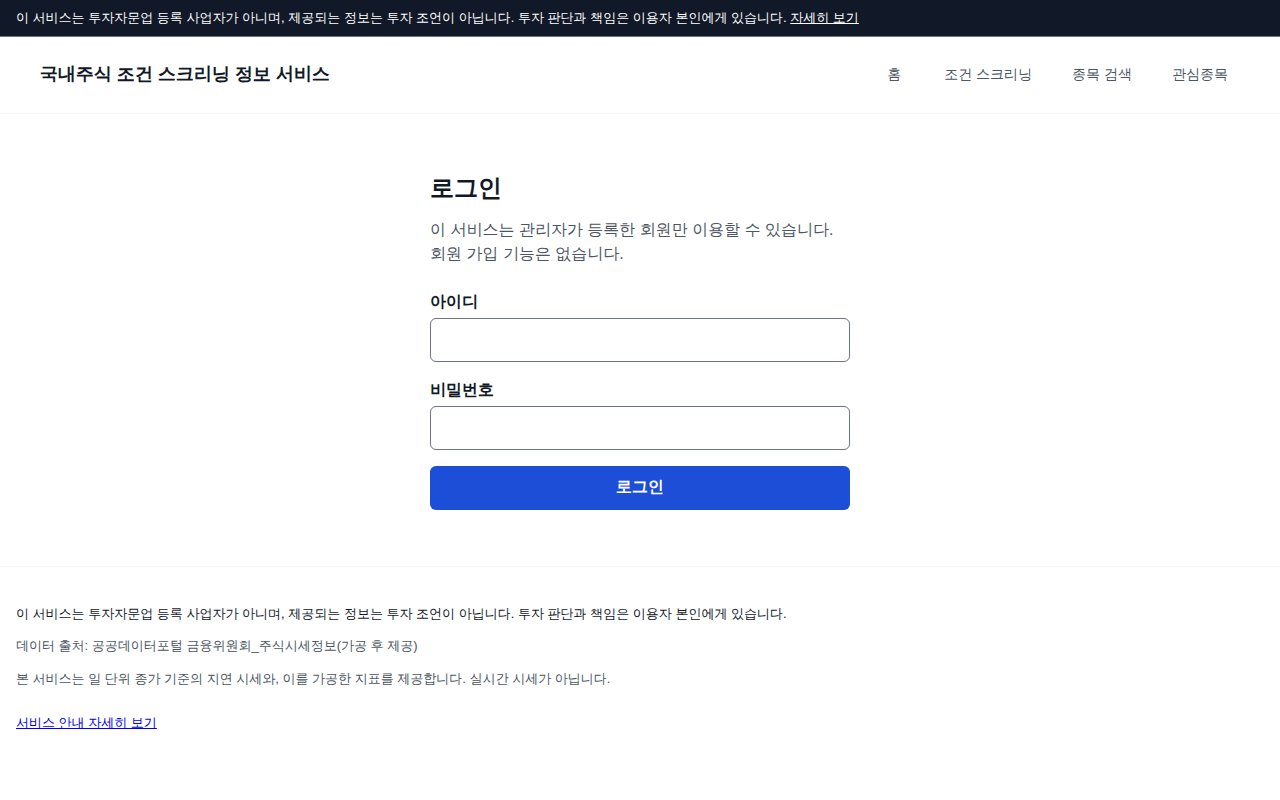
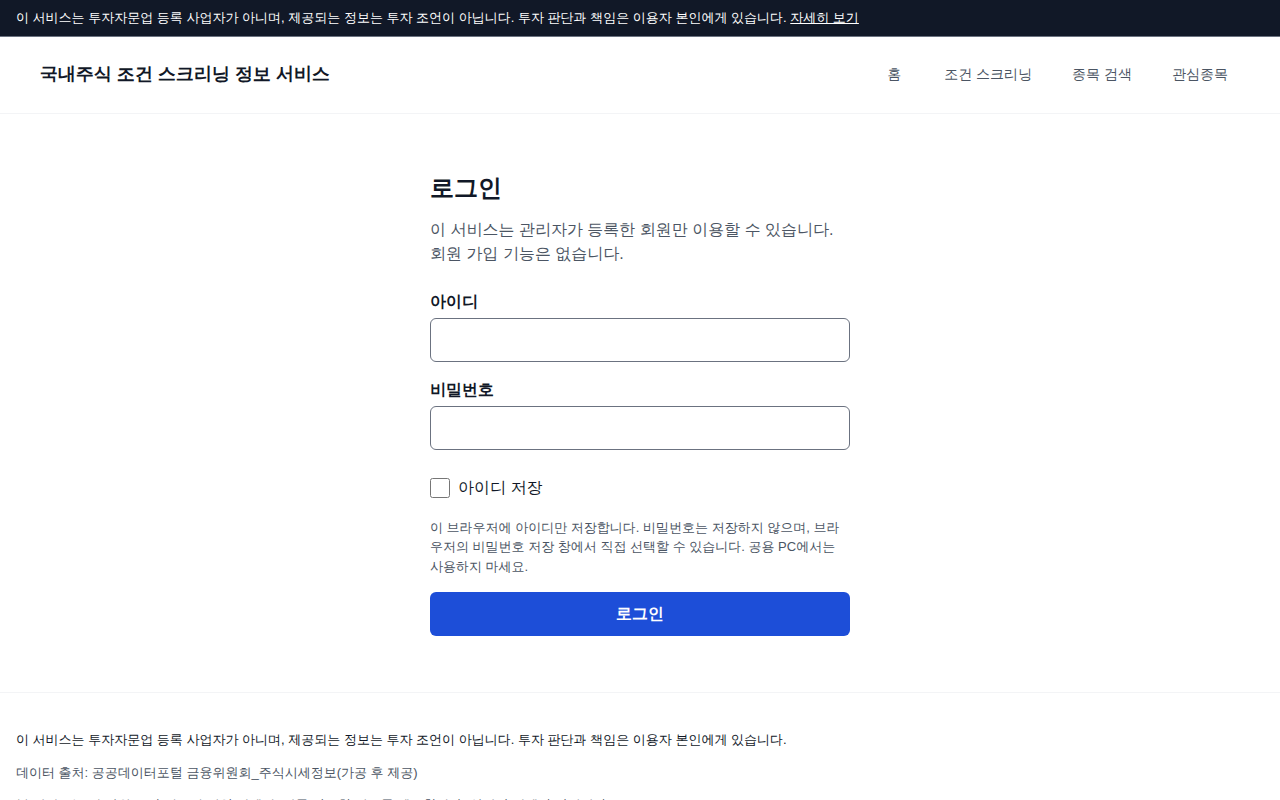
feat(auth): 로그인 화면 아이디 저장 + 브라우저 비밀번호 관리자 연계 (DEC-069)
Claude-Session: https://claude.ai/code/session_01QuiKfc1fybZYPtPuWCxdtT

Changed region(s): [[0.0, 0.5625, 0.6875, 0.8125], [0.0, 0.8438, 0.625, 0.9688]]

diff --git a/frontend/src/components/LoginForm.tsx b/frontend/src/components/LoginForm.tsx
@@ -2,6 +2,22 @@
 
 import { useEffect, useRef, useState, type FormEvent } from "react";
 import copy from "@/content/copy.ko.json";
+import { browserStorage, loadSavedUsername, persistUsername } from "@/lib/auth/savedUsername";
+
+/**
+ * 브라우저 비밀번호 관리자에 저장을 제안한다(Credential Management API, Chrome·Edge). 앱은 비밀번호를 저장하지 않고 브라우저에 넘길 뿐이며
+ * 저장 여부는 사용자가 브라우저 창에서 정한다. 미지원 브라우저는 폼의 autocomplete 속성으로 브라우저가 알아서 제안한다. 최대 1초만 기다린다.
+ */
+async function offerPasswordToBrowser(username: string, password: string): Promise<void> {
+  try {
+    const w = window as unknown as { PasswordCredential?: new (data: { id: string; password: string; name?: string }) => Credential };
+    if (!w.PasswordCredential || !navigator.credentials?.store) return;
+    const credential = new w.PasswordCredential({ id: username.trim(), password });
+    await Promise.race([navigator.credentials.store(credential), new Promise((resolve) => setTimeout(resolve, 1000))]);
+  } catch {
+    // 저장 제안 실패는 로그인에 영향을 주지 않는다
+  }
+}
 
 /**
  * 로그인 입력 폼(DEC-067). 제출은 같은 사이트의 `POST /auth/login`(JSON)으로 보내고, 성공하면 **전체 화면 이동**으로 돌아갈 곳을 연다
@@ -11,7 +27,19 @@ export function LoginForm({ next, expired }: { next: string; expired: boolean })
   const [pending, setPending] = useState(false);
   const [message, setMessage] = useState<string | null>(expired ? copy.auth.expiredNotice : null);
   const passwordRef = useRef<HTMLInputElement>(null);
+  const usernameRef = useRef<HTMLInputElement>(null);
+  const rememberRef = useRef<HTMLInputElement>(null);
   const [failures, setFailures] = useState(0);
+
+  // "아이디 저장": 저장된 아이디가 있으면 채우고 비밀번호 칸으로 포커스(비밀번호는 브라우저 비밀번호 관리자가 채운다).
+  useEffect(() => {
+    const saved = loadSavedUsername(browserStorage());
+    if (saved && usernameRef.current && rememberRef.current && usernameRef.current.value === "") {
+      usernameRef.current.value = saved;
+      rememberRef.current.checked = true;
+      passwordRef.current?.focus();
+    }
+  }, []);
 
   // 실패한 뒤 비밀번호 칸에 포커스를 돌려준다. 입력칸은 제출하는 동안 비활성이라, 다시 활성화된 **다음 렌더 뒤**에 포커스해야 먹힌다.
   useEffect(() => {
@@ -36,6 +64,8 @@ export function LoginForm({ next, expired }: { next: string; expired: boolean })
       const body = (await response.json().catch(() => null)) as { ok?: boolean; next?: unknown } | null;
       if (response.ok && body?.ok) {
         const target = typeof body.next === "string" && body.next.startsWith("/") && !body.next.startsWith("//") ? body.next : "/";
+        persistUsername(browserStorage(), username, rememberRef.current?.checked === true);
+        await offerPasswordToBrowser(username, password);
         window.location.assign(target);
         return; // 화면이 바뀌므로 입력 잠금은 그대로 둔다
       }
@@ -66,6 +96,7 @@ export function LoginForm({ next, expired }: { next: string; expired: boolean })
           maxLength={64}
           required
           disabled={pending}
+          ref={usernameRef}
         />
       </div>
       <div className="login-form__field">
@@ -81,6 +112,11 @@ export function LoginForm({ next, expired }: { next: string; expired: boolean })
           ref={passwordRef}
         />
       </div>
+      <div className="login-form__remember">
+        <input id="login-remember" name="remember" type="checkbox" disabled={pending} ref={rememberRef} />
+        <label htmlFor="login-remember">{copy.auth.rememberLabel}</label>
+      </div>
+      <p className="login-form__hint">{copy.auth.rememberHint}</p>
       {message ? (
         <p className="login-form__message" role="alert">
           {message}

diff --git a/frontend/src/lib/auth/savedUsername.ts b/frontend/src/lib/auth/savedUsername.ts
@@ -1,0 +1,50 @@
+/**
+ * "아이디 저장"(로그인 편의, DEC-069): 아이디만 이 브라우저의 localStorage에 둔다. **비밀번호는 어디에도 저장하지 않는다**
+ * (JS가 읽을 수 있는 저장소에 비밀번호를 두면 XSS 한 번으로 탈취된다). 비밀번호 저장은 브라우저·OS의 비밀번호 관리자에 맡긴다.
+ * 저장소가 막힌 환경(사생활 보호 모드 등)에서는 조용히 아무것도 하지 않는다.
+ */
+export const SAVED_USERNAME_KEY = "login.savedUsername";
+const VALID = /^[A-Za-z0-9][A-Za-z0-9._-]{0,63}$/;
+
+export interface StorageLike {
+  getItem(key: string): string | null;
+  setItem(key: string, value: string): void;
+  removeItem(key: string): void;
+}
+
+/** 저장된 아이디가 있으면 돌려주고, 형식이 이상한 값(변조 등)은 지우고 null. */
+export function loadSavedUsername(storage: StorageLike | null | undefined): string | null {
+  try {
+    const raw = storage?.getItem(SAVED_USERNAME_KEY);
+    if (raw == null) return null;
+    if (VALID.test(raw)) return raw;
+    storage?.removeItem(SAVED_USERNAME_KEY);
+  } catch {
+    // 저장소 접근 불가: 저장 기능만 포기한다
+  }
+  return null;
+}
+
+/** remember가 true이고 아이디 형식이 맞을 때만 저장, 아니면 지운다. 저장했으면 true. */
+export function persistUsername(storage: StorageLike | null | undefined, username: string, remember: boolean): boolean {
+  try {
+    const value = username.trim();
+    if (remember && VALID.test(value)) {
+      storage?.setItem(SAVED_USERNAME_KEY, value);
+      return storage != null;
+    }
+    storage?.removeItem(SAVED_USERNAME_KEY);
+  } catch {
+    // 저장소 접근 불가
+  }
+  return false;
+}
+
+/** 안전하게 localStorage를 얻는다(접근만 해도 예외가 날 수 있다). */
+export function browserStorage(): StorageLike | null {
+  try {
+    return typeof window === "undefined" ? null : window.localStorage;
+  } catch {
+    return null;
+  }
+}

diff --git a/frontend/src/app/globals.css b/frontend/src/app/globals.css
@@ -2635,6 +2635,32 @@ main {
   outline-offset: 2px;
 }
 
+.login-form__remember {
+  display: flex;
+  align-items: center;
+  gap: var(--space-2);
+  min-height: 44px; /* 터치 영역 */
+}
+
+.login-form__remember input {
+  width: 20px;
+  height: 20px;
+  margin: 0;
+  accent-color: var(--color-brand-primary);
+}
+
+.login-form__remember input:focus-visible {
+  outline: 2px solid var(--color-focus-ring);
+  outline-offset: 2px;
+}
+
+.login-form__hint {
+  margin: calc(var(--space-2) * -1) 0 0;
+  color: var(--color-text-secondary);
+  font-size: 13px;
+  line-height: 1.5;
+}
+
 .login-form__message {
   margin: 0;
   padding: var(--space-2) var(--space-3);

diff --git a/docs/harness/decisions.md b/docs/harness/decisions.md
@@ -79,3 +79,4 @@
 | DEC-066 | 2026-10-05 | 대기 안내를 카운트다운 팝업으로 변경(DEC-063·065 보완) | 운영에서 15분 쉰 뒤 접속하면 상단 배너가 떴으나 "제대로 확인이 불가하다"는 지적. 사용자가 요청 시각과 1분 카운트다운 팝업, 00에서 팝업 닫고 새로고침을 요청. | **채택(사용자 지시 + 3개 선택)**: 4.5초 넘게 걸리면 가운데 팝업에 요청 시각(KST)과 남은 시간 60→00 표시. ① 60초 전에 데이터가 오면 팝업만 닫고 새로고침 안 함 ② 0초에 새로고침은 서버가 화면을 불러오는 중일 때(홈·종목 상세)만, 브라우저 요청 지연은 팝업만 닫음 ③ 새로고침은 같은 탭에서 연속 최대 2회(저장소 오류 시 새로고침 안 함). 팝업은 화면 조작을 막지 않음. 웹 자체가 잠든 구간은 불가. | 사용자 응답 (2026-10-05) | Medium | `frontend/src/lib/wakeCountdown.ts`, `frontend/src/components/ApiWakeNotice.tsx`, `frontend/src/lib/apiWake.ts` |
 | DEC-067 | 2026-10-05 | 운영 사이트 로그인 기능(회원 가입 없음, 관리자가 넣은 회원만) | 사용자가 "회원 가입 없이 내가 넣은 회원만 로그인해 조회, 로그인하면 로그인 가능한 사람들을 조회하는 메뉴"를 요청. 검토 결과 웹에만 로그인을 붙이면 API 직접 호출로 우회되고(API의 내부 토큰은 호출 한도용), 브라우저가 API를 직접 부르는 곳이 5곳이다. | **구현·내부 테스트 완료(운영 미적용, 적용 절차 `docs/ops/login-rollout-runbook.md`)**. 사용자 선택: ① 보호 수준 A(웹이 API를 대행, API는 웹 비밀 토큰 없으면 거부) ② 회원은 Neon 테이블 + 관리자 스크립트 ③ 회원 목록은 로그인한 모든 회원이 아이디·이름만 ④ 운영(Render)에만 적용. 설계서: `docs/harness/login-feature-design.md`. 기본값(세션 8시간, 비밀번호 12자, 5회 15분 잠금 등)과 선행 조건(내부 토큰 교체)은 사용자 승인 후 구현. | 사용자 응답 (2026-10-05) | High | `docs/harness/login-feature-design.md` |
 | DEC-068 | 2026-10-05 | 운영 투자자별 수급 표시(DEC-049/054 후속) | 사용자가 운영 서버에서도 투자자 항목을 보길 원함. 조사 결과: KRX 이용약관은 자동 수집·복제·배포를 금지하고 2025-12-27부터 정보데이터시스템이 로그인 회원제(Data Marketplace)로 바뀌어 스크래핑 불가. 증권사(KIS) 값을 다른 회원에게 보여 주는 것은 재배포 해당 여부 약관 미확인. | **사용자가 방안 4(소유자 본인 한 명만 보기) 선택.** 소유자 PC가 본인 KIS 앱키로 수집(`scripts/collect_investor_flow.py`)→Neon `public_serving.investor_flow_daily`(0016)→API `GET /api/v1/internal/owner/stocks/{code}/investor`(내부 토큰+소유자 아이디 확인)→웹은 소유자 로그인일 때만 표(다른 회원은 "준비 중" 유지). 앱키는 PC에만 둔다. 제3자 제공이 없어 약관 위험을 피한다. 당일 행은 KST 20:00 이후에만 적재(확정 시각 미확인). 값 단위(주·백만원)는 DEC-054와 같이 실제 앱 대조 필요. | 사용자 응답 (2026-10-05, "4번으로 진행해 주세요") | Medium | `docs/ops/login-rollout-runbook.md` §7, `docs/qa/2026-10-05-owner-investor-test-result.md` |
+| DEC-069 | 2026-10-05 | 로그인 화면 "아이디/비밀번호 자동 저장" 요청(DEC-067 보완) | 사용자가 로그인 정보 자동 저장 기능을 요청. 앱이 비밀번호를 저장하면(localStorage·쿠키 등 JS가 읽는 저장소) XSS 한 번으로 탈취되고, 서버가 비밀번호 원문을 되돌려 줄 수도 없다(argon2 해시). | **아이디만 "아이디 저장" 체크박스로 localStorage에 저장하고, 비밀번호는 브라우저·OS 비밀번호 관리자에 맡긴다**: ① 폼 `autocomplete`(username/current-password) ② 로그인 성공 시 Credential Management API(`PasswordCredential`)로 저장을 제안(최대 1초 대기, 미지원 브라우저는 무시) ③ 저장 아이디는 형식 검증·변조 값 삭제. 앱 쪽 비밀번호 저장·"자동 로그인(세션 연장)"은 하지 않았다(세션 8시간·5분 재확인 결정 DEC-067 유지). 자동 로그인이 필요하면 별도 결정. | 사용자 요청(2026-10-05) + 보안 판단(20년차 기준) | Low | `frontend/src/lib/auth/savedUsername.ts`, `frontend/src/components/LoginForm.tsx`, `docs/qa/2026-10-05-login-test-result.md` §5 |

diff --git a/docs/qa/2026-10-05-login-test-result.md b/docs/qa/2026-10-05-login-test-result.md
@@ -36,3 +36,16 @@
 5. VPS 경로(`deploy/db/init/01-roles.sh`)에 `auth_service` 미반영.
 6. 선행 조건(내부 토큰·Neon 비밀번호 교체)은 사용자 수행 대기.
 7. AI는 운영 배포·Neon 변경을 수행하지 않았다.
+
+## 5. 추가: "아이디 저장" + 브라우저 비밀번호 관리자 연계 (DEC-069)
+요구 "아이디/패스워드 자동저장"을 **아이디는 앱이 저장, 비밀번호는 브라우저·OS 비밀번호 관리자가 저장**하는 방식으로 구현했다. 앱이 비밀번호를 저장하지 않는 이유: JS가 읽을 수 있는 저장소(localStorage·쿠키)의 비밀번호는 XSS 한 번에 탈취되며, 서버는 argon2 해시만 갖고 있어 원문을 돌려줄 수도 없다. "자동 로그인(세션 연장)"은 만들지 않았고(8시간·5분 재확인 유지) 필요하면 별도 결정이다.
+
+| 구분 | 건수 | 결과 |
+|---|---|---|
+| 단위 `check-auth.mjs` 신규 4건(저장·해제, 형식 불량·변조 값 삭제, 저장소 예외, 소스에 비밀번호 저장 경로 없음) | 22(전체 프런트 110) | 통과 |
+| E2E 섹션 H 27건: 체크박스·라벨·안내·44px·가로 넘침·Tab 순서·스페이스·axe(360/1280), 성공 로그인 시 비밀번호 관리자 호출(아이디·비밀번호 전달, 응답 없어도 로그인 완료), 아이디만 저장·비밀번호는 localStorage/sessionStorage/cookie 어디에도 없음, 재방문 시 아이디 채움+비밀번호 칸 포커스, 해제 시 삭제, 실패 로그인은 저장·제안 안 함, 변조 저장값 무시·스크립트 미실행, 저장소 접근 불가·PasswordCredential 미지원 브라우저 | 27 | 통과 |
+| E2E 전체(A–H) 1회 재실행 | 182 중 182 | 통과 |
+| 회귀: tsc·eslint·금지표현 검사 | 오류 0 | 통과 |
+화면: `docs/qa/2026-10-05/login-remember-360.png`.
+
+미확인: 실제 Chrome/Edge/Safari/Firefox의 비밀번호 저장 창 표시(자동화 브라우저는 창이 없어 **API 호출 여부만** 확인), 모바일 실기기 자동완성, 비밀번호 관리자 앱(1Password 등) 연동. 사용자가 운영 적용 후 실제 브라우저에서 "비밀번호 저장" 제안이 뜨는지 확인해야 한다.
